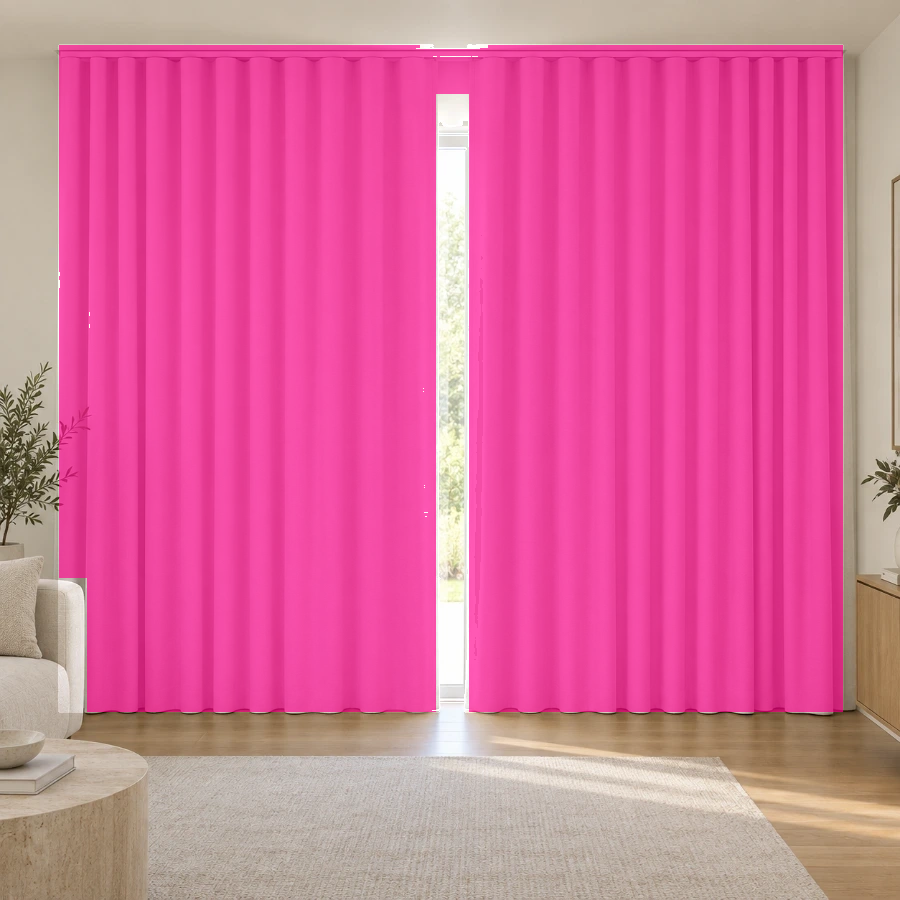
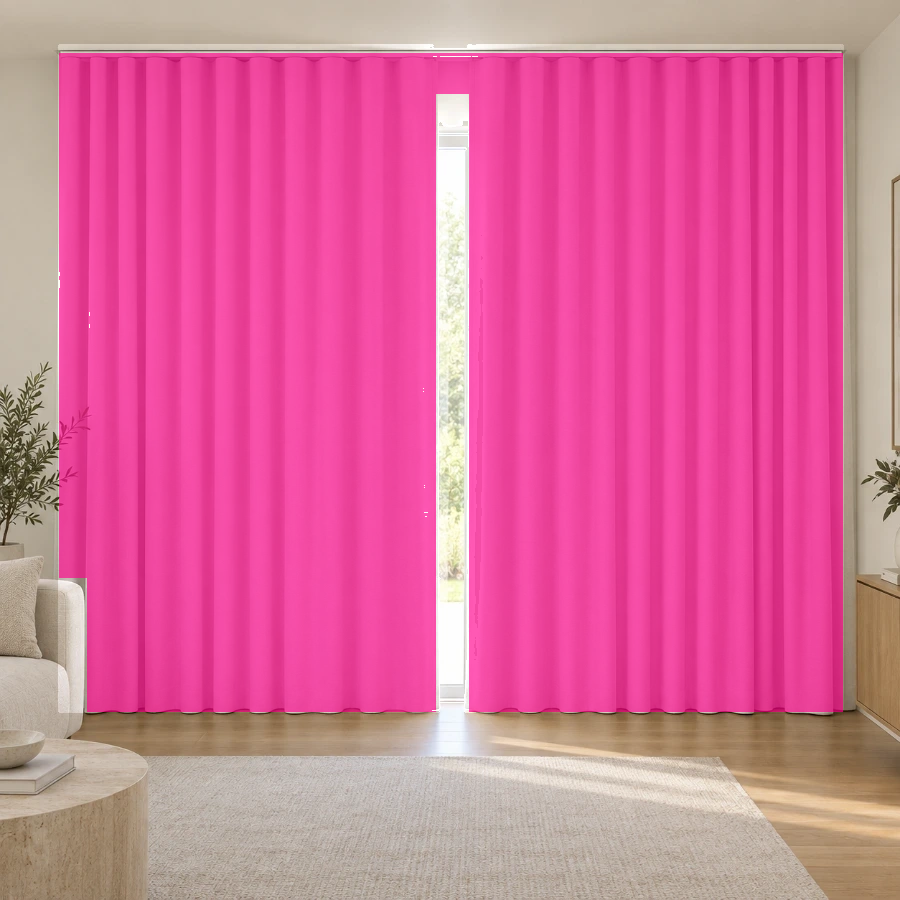
Give a dark curtain its folds back, and stop the dye at the heading
MULTIPLYING BY A DARK COLOUR DOES NOT DARKEN A PHOTOGRAPH, IT FLATTENS IT, and
that is the whole of "the folds are being covered". The curtain's folds run 157
to 225 in the shot. Multiplied by Black — 19, 20, 21 — they come out 12 to 17: a
five-level range, which is a black rectangle with a curtain's outline. Every
fold, every pleat and the entire hang of the cloth goes, and the darker the
colour the more of the product disappears with it.

What was missing is sheen. A black curtain in that room still catches the light
off the window, and that highlight is a reflection off the surface — it is not
the dye, so nothing should have multiplied it away. Painting the shot back over
itself in soft-light returns it, in the cloth's own shape, and it is the same
move the hardware layer has always made for the specular on a chrome headrail.

SCALED BY HOW DARK THE COLOUR IS, because that is exactly how much was lost.
White multiplies to 0.9 of the original and gets 0.05 of a pass back; Black
multiplies to 0.08 and gets 0.46. The pale end of the colour card renders
identically to before.

PER SHOT RATHER THAN EVERYWHERE, and the venetian is why. Soft-light lifts
everything above mid-grey, and measured under their own masks the cloths sit at:
curtains 200, plantation shutters 197, roller blinds 222, venetian 227, curtain
sheer 234. At 227 there is little shadow left to restore and a great deal of
unwanted lift to gain — run against the venetian it turns a charcoal blind into
[…]

Changed region(s): [[0.0622, 0.0311, 0.9333, 0.0622]]

diff --git a/src/features/catalogue/components/ShopCard.tsx b/src/features/catalogue/components/ShopCard.tsx
@@ -157,6 +157,40 @@ const ASSURANCES = [
 const dyeColour = (item: CatalogueItem, sel: Selection): string =>
   item.colours?.find(c => c.name === sel.colour)?.hex ?? '#FFFFFF';
 
+/** HOW MUCH OF THE CLOTH'S OWN MODELLING HAS TO GO BACK ON TOP, 0..1.
+ *
+ * MULTIPLYING BY A DARK COLOUR DOES NOT DARKEN A PHOTOGRAPH, IT FLATTENS IT.
+ * The curtain's folds run 157 to 225 in the shot. Multiply by Black — 19, 20, 21
+ * — and they come out 12 to 17: a five-level range, which is a black rectangle
+ * with a curtain's outline. Every fold, every pleat and the whole hang of the
+ * cloth is gone, and the darker the colour the more of the product disappears
+ * with it. That is wrong about the fabric and wrong about the photograph.
+ *
+ * What is missing is sheen. A black curtain in that room still catches the light
+ * off the window, and the highlight it catches is a reflection off the surface —
+ * it is not the dye, so nothing should have multiplied it away. Painting the
+ * shot back over itself in soft-light restores it: bright where the cloth was
+ * bright, dark where it was dark, in the cloth's own shape.
+ *
+ * SCALED BY HOW DARK THE COLOUR IS, because that is exactly how much was lost.
+ * White multiplies to 0.9 of the original and needs nothing back; Black
+ * multiplies to 0.08 and needs nearly all of it. So the strength is the shot's
+ * own `sheen` times one minus the swatch's luminance — which leaves the pale end
+ * of every colour card exactly as it renders today.
+ *
+ * PER SHOT RATHER THAN EVERYWHERE, and the venetian is why. Its slats photograph
+ * at a median of 227 against the curtain's 200, and soft-light lifts everything
+ * above mid-grey — so the same pass that gives a black curtain its folds turns a
+ * charcoal venetian into a mid-grey one. A cloth that is already near-white has
+ * little modelling in the shadows to restore and a great deal of lift to gain,
+ * which is the wrong trade. See SHEEN in tools/generate-fabric-shots.mjs. */
+const sheenStrength = (shot: { sheen: number } | undefined, hex: string): number => {
+  if (!shot?.sheen) return 0;
+  const v = (i: number) => parseInt(hex.slice(1 + i * 2, 3 + i * 2), 16) / 255;
+  const luma = 0.2126 * v(0) + 0.7152 * v(1) + 0.0722 * v(2);
+  return shot.sheen * (1 - luma);
+};
+
 /** THE COLOUR THE HEADRAIL AND BOTTOM BAR ARE PAINTED. The same three the
  * visualiser uses, so a blind specified here and a blind specified there are the
  * same blind. Chrome where nothing is chosen, which is what the photographs were
@@ -425,6 +459,36 @@ export function ShopCard({ item, sel, onChange }: ShopCardProps) {
                 // with it or the colour slides off the cloth.
                 transform: lit ? 'scale(1.04)' : 'scale(1)',
                 transition: 'transform 0.7s ease, background 0.25s ease',
+              }}
+            />
+          )}
+
+          {/* THE SHEEN, PUT BACK. The dye above flattens the cloth in proportion
+              to how dark the colour is, and this returns the same proportion of
+              the photograph's own modelling — see sheenStrength for why a black
+              curtain without it is a black rectangle. Nothing is drawn where the
+              shot has no sheen or the colour is pale enough not to have lost
+              any. */}
+          {shot?.mask && sheenStrength(shot, dyeColour(item, sel)) > 0.01 && (
+            <div
+              aria-hidden="true"
+              style={{
+                position: 'absolute',
+                inset: 0,
+                backgroundImage: `url(${FABRIC_SHOT_DIR}/${shot.file})`,
+                backgroundSize: 'cover',
+                backgroundPosition: item.imagePosition ?? '50% 45%',
+                mixBlendMode: 'soft-light',
+                opacity: sheenStrength(shot, dyeColour(item, sel)),
+                WebkitMaskImage: `url(${FABRIC_SHOT_DIR}/${shot.mask})`,
+                maskImage: `url(${FABRIC_SHOT_DIR}/${shot.mask})`,
+                WebkitMaskSize: 'cover',
+                maskSize: 'cover',
+                WebkitMaskPosition: item.imagePosition ?? '50% 45%',
+                maskPosition: item.imagePosition ?? '50% 45%',
+                pointerEvents: 'none',
+                transform: lit ? 'scale(1.04)' : 'scale(1)',
+                transition: 'transform 0.7s ease, opacity 0.25s ease',
               }}
             />
           )}

diff --git a/src/features/catalogue/fabricShots.ts b/src/features/catalogue/fabricShots.ts
@@ -37,22 +37,29 @@ export interface FabricShot {
    * render identically and the fabric row appears to do nothing on exactly the
    * colours where it matters most. */
   dye: number;
+  /** How much of the photograph's own modelling the card paints back over the
+   * dye, 0..1, scaled there by how dark the chosen colour is. Multiplying by a
+   * dark colour flattens a cloth as well as darkening it, and this returns the
+   * sheen -- a reflection off the surface, which was never the dye's to take.
+   * 0 where the cloth was photographed near-white and a soft-light pass would
+   * lift more than it restores. */
+  sheen: number;
 }
 
 export const FABRIC_SHOT_DIR = '/images/fabrics';
 
 export const FABRIC_SHOTS: FabricShot[] = [
-  { product: 'curtains', fabric: 'blockout', file: 'curtains-blockout.webp', mask: 'curtains.mask.png', hardware: 'curtains.hardware.png', dye: 1 },
-  { product: 'curtains', fabric: 'sheer', file: 'curtains-sheer.webp', mask: 'curtains.mask.png', hardware: 'curtains.hardware.png', dye: 0.62 },
-  { product: 'folding-arm-awnings', fabric: 'acrylic', file: 'folding-arm-awnings-acrylic.webp', mask: null, hardware: null, dye: 1 },
-  { product: 'plantation-shutters', fabric: null, file: 'plantation-shutters.webp', mask: 'plantation-shutters.mask.png', hardware: null, dye: 1 },
-  { product: 'roller-blinds', fabric: 'blockout', file: 'roller-blinds-blockout.webp', mask: 'roller-blinds.mask.png', hardware: 'roller-blinds.hardware.png', dye: 1 },
-  { product: 'roller-blinds', fabric: 'dual', file: 'roller-blinds-dual.webp', mask: 'roller-blinds.mask.png', hardware: 'roller-blinds.hardware.png', dye: 0.88 },
-  { product: 'roller-blinds', fabric: 'lightfilter', file: 'roller-blinds-lightfilter.webp', mask: 'roller-blinds.mask.png', hardware: 'roller-blinds.hardware.png', dye: 0.7 },
-  { product: 'roller-blinds', fabric: 'sunscreen', file: 'roller-blinds-sunscreen.webp', mask: 'roller-blinds.mask.png', hardware: 'roller-blinds.hardware.png', dye: 0.55 },
-  { product: 'roller-shutters', fabric: 'aluminium', file: 'roller-shutters-aluminium.webp', mask: null, hardware: null, dye: 1 },
-  { product: 'venetian-blinds', fabric: null, file: 'venetian-blinds.webp', mask: 'venetian-blinds.mask.png', hardware: null, dye: 1 },
-  { product: 'zip-guide-systems', fabric: 'mesh', file: 'zip-guide-systems-mesh.webp', mask: null, hardware: null, dye: 1 },
+  { product: 'curtains', fabric: 'blockout', file: 'curtains-blockout.webp', mask: 'curtains.mask.png', hardware: 'curtains.hardware.png', dye: 1, sheen: 0.5 },
+  { product: 'curtains', fabric: 'sheer', file: 'curtains-sheer.webp', mask: 'curtains.mask.png', hardware: 'curtains.hardware.png', dye: 0.62, sheen: 0.5 },
+  { product: 'folding-arm-awnings', fabric: 'acrylic', file: 'folding-arm-awnings-acrylic.webp', mask: null, hardware: null, dye: 1, sheen: 0 },
+  { product: 'plantation-shutters', fabric: null, file: 'plantation-shutters.webp', mask: 'plantation-shutters.mask.png', hardware: null, dye: 1, sheen: 0 },
+  { product: 'roller-blinds', fabric: 'blockout', file: 'roller-blinds-blockout.webp', mask: 'roller-blinds.mask.png', hardware: 'roller-blinds.hardware.png', dye: 1, sheen: 0 },
+  { product: 'roller-blinds', fabric: 'dual', file: 'roller-blinds-dual.webp', mask: 'roller-blinds.mask.png', hardware: 'roller-blinds.hardware.png', dye: 0.88, sheen: 0 },
+  { product: 'roller-blinds', fabric: 'lightfilter', file: 'roller-blinds-lightfilter.webp', mask: 'roller-blinds.mask.png', hardware: 'roller-blinds.hardware.png', dye: 0.7, sheen: 0 },
+  { product: 'roller-blinds', fabric: 'sunscreen', file: 'roller-blinds-sunscreen.webp', mask: 'roller-blinds.mask.png', hardware: 'roller-blinds.hardware.png', dye: 0.55, sheen: 0 },
+  { product: 'roller-shutters', fabric: 'aluminium', file: 'roller-shutters-aluminium.webp', mask: null, hardware: null, dye: 1, sheen: 0 },
+  { product: 'venetian-blinds', fabric: null, file: 'venetian-blinds.webp', mask: 'venetian-blinds.mask.png', hardware: null, dye: 1, sheen: 0 },
+  { product: 'zip-guide-systems', fabric: 'mesh', file: 'zip-guide-systems-mesh.webp', mask: null, hardware: null, dye: 1, sheen: 0 },
 ];
 
 /** The shot for a configuration, or undefined where none has been photographed

diff --git a/docs/fabric-photos.md b/docs/fabric-photos.md
@@ -63,11 +63,11 @@ recoverable from the file, so re-cutting without them undoes all of it.
 
 ```
 node tools/cut-fabric-mask.mjs public/images/fabrics/curtains-blockout.webp curtains --curtain \
-  --box=0.05,0.79,0.065,0.935 \
+  --box=0.0589,0.79,0.065,0.935 \
   --glass=0.1044,0.79,0.4844,0.52 \
   --lit=0.1044,0.79,0.52,0.5422 \
   --front=0.6422,0.79,0.0644,0.0956 \
-  --track=0.0544,0.0633,0.0644,0.9367
+  --track=0.0522,0.0589,0.0644,0.9367
 ```
 
 - `--glass` is the window between the two panels. The flood fill used to find it
@@ -82,12 +82,21 @@ node tools/cut-fabric-mask.mjs public/images/fabrics/curtains-blockout.webp curt
   other.
 - `--track` is the ceiling track, which is what the hardware colour paints. It is
   seven pixels and that is all this photograph holds — the curtain is
-  ceiling-mounted, so the track is most of the way into the recess.
+  ceiling-mounted, so the track is most of the way into the recess. The box's top
+  starts where the track ends, so the dye stops at the heading and no colour
+  spills onto the ceiling above it.
+
+Every given rectangle is feathered by eight pixels where it meets the cloth. A
+hand-typed edge is perfectly straight and perfectly hard, and against a sheer
+that reads as a cut-out rather than a gap — the fill's own boundary has always
+been soft, and a given one has to be too.
 
 Both curtain fabrics share this mask and this track; only `dye` differs, and the
 sheer's is 0.62 rather than the 0.38 the visualiser uses for the same cloth. See
 the note on `DYE_STRENGTH` in tools/generate-fabric-shots.mjs for why a number
-read off a flat swatch is the wrong number for a photograph of a bright window.
+read off a flat swatch is the wrong number for a photograph of a bright window,
+and the note on `SHEEN` beside it for why the card paints the cloth's own
+modelling back over a dark dye.
 
 ## What the photographs have to do
 
